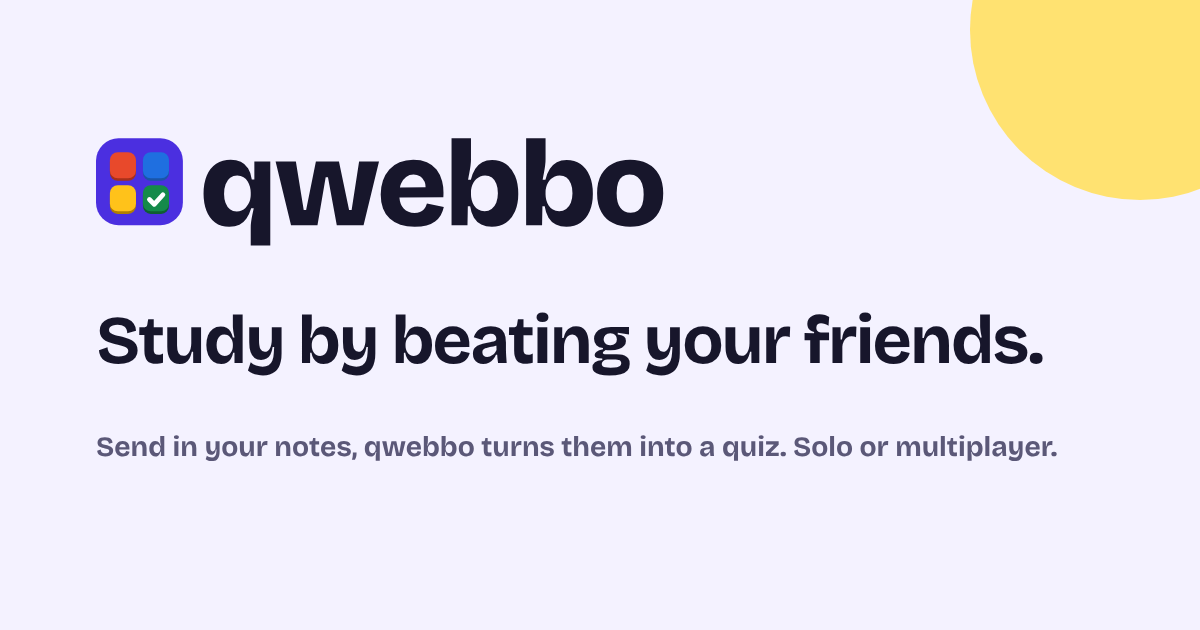
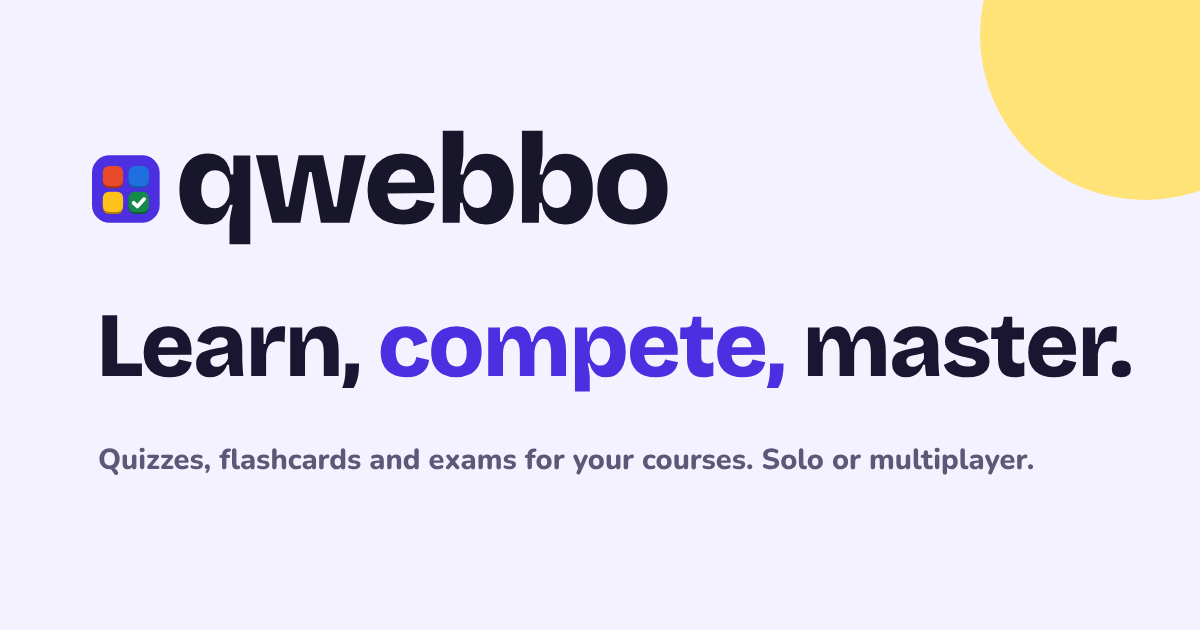
Slogan in intro videos and share image; canonical, og:url, absolute og:image, sitemap, robots; accurate description (#107)
Claude-Session: https://claude.ai/code/session_01GGTUtRtoMiv41FvyD6a17f

diff --git a/index.html b/index.html
@@ -4,7 +4,7 @@
 <meta charset="utf-8">
 <meta name="viewport" content="width=device-width,initial-scale=1,viewport-fit=cover">
 <title>qwebbo · Learn, compete, master</title>
-<meta name="description" content="Send in your notes and qwebbo turns them into a quiz. Play solo or with your friends.">
+<meta name="description" content="Quizzes, flashcards and exams for your courses. Play solo or with your friends.">
 <meta name="theme-color" content="#4B2FE0">
 <meta name="color-scheme" content="light dark">
 <script>
@@ -19,15 +19,18 @@
 <link rel="icon" href="/favicon.svg" type="image/svg+xml">
 <link rel="apple-touch-icon" href="/apple-touch-icon.png">
 <link rel="manifest" href="/manifest.webmanifest">
+<link rel="canonical" href="https://qwebbo.com/">
 <meta property="og:type" content="website">
+<meta property="og:url" content="https://qwebbo.com/">
 <meta property="og:site_name" content="qwebbo">
 <meta property="og:title" content="qwebbo · Learn, compete, master">
-<meta property="og:description" content="Send in your notes and qwebbo turns them into a quiz. Play solo or with your friends.">
-<meta property="og:image" content="/img/og-image.png">
+<meta property="og:description" content="Quizzes, flashcards and exams for your courses. Play solo or with your friends.">
+<meta property="og:image" content="https://qwebbo.com/img/og-image.png">
 <meta property="og:image:width" content="1200">
 <meta property="og:image:height" content="630">
 <meta name="twitter:card" content="summary_large_image">
-<meta name="twitter:image" content="/img/og-image.png">
+<meta name="twitter:title" content="qwebbo · Learn, compete, master">
+<meta name="twitter:image" content="https://qwebbo.com/img/og-image.png">
 <link rel="preconnect" href="https://fonts.googleapis.com">
 <link rel="preconnect" href="https://fonts.gstatic.com" crossorigin>
 <link rel="preconnect" href="https://cdn.jsdelivr.net" crossorigin>

diff --git a/js/i18n.js b/js/i18n.js
@@ -100,7 +100,7 @@ var FR={
 "Quiz not found":"Quiz introuvable",
 "Couldn't load this quiz, check your connection":"Impossible de charger ce quiz, vérifie ta connexion",
 // language switch
-"Send in your notes and qwebbo turns them into a quiz. Play solo or with your friends.":"Envoie ton cours, qwebbo en fait un quiz. Joue seul ou en multi avec tes potes.",
+"Quizzes, flashcards and exams for your courses. Play solo or with your friends.":"Quiz, flashcards et examens pour tes cours. Joue seul ou en multi avec tes potes.",
 "Podium":"Podium","Sessions":"Sessions","Question":"Question","Question {i} / {n}":"Question {i} / {n}","Pause":"Pause","question {n}":"question {n}","questions":"questions",
 "Switch to French":"Passer en français","Switch to English":"Passer en anglais",
 // quiz screen

diff --git a/js/i18n-es.js b/js/i18n-es.js
@@ -83,7 +83,7 @@ var ES={
 "Quiz not found":"Quiz no encontrado",
 "Couldn't load this quiz, check your connection":"No se ha podido cargar este quiz, revisa tu conexión",
 // language switch
-"Send in your notes and qwebbo turns them into a quiz. Play solo or with your friends.":"Envía tus apuntes y qwebbo los convierte en un quiz. Juega solo o con tus amigos.",
+"Quizzes, flashcards and exams for your courses. Play solo or with your friends.":"Quizzes, flashcards y exámenes para tus cursos. Juega solo o con tus amigos.",
 "Podium":"Podio","Sessions":"Sesiones","Question":"Pregunta","Question {i} / {n}":"Pregunta {i} / {n}","Pause":"Pausa","question {n}":"pregunta {n}","questions":"preguntas",
 "Switch to French":"Cambiar a francés","Switch to English":"Cambiar a inglés",
 // quiz screen

diff --git a/supabase/functions/generate-quiz/index.ts b/supabase/functions/generate-quiz/index.ts
@@ -11,7 +11,7 @@ const PER_IP_PER_HOUR = 6;
 const GLOBAL_PER_DAY = 60; // each quiz costs real money: this is the hard ceiling per day
 
 // Kill switch: the function does nothing (and costs nothing) until the secret GENERATE_ENABLED is set to "true".
-// ALLOWED_ORIGIN (optional secret, e.g. https://tipoki.vercel.app) limits which website may call it from a browser.
+// ALLOWED_ORIGIN (optional secret, e.g. https://qwebbo.com) limits which website may call it from a browser.
 const cors = {
   "Access-Control-Allow-Origin": Deno.env.get("ALLOWED_ORIGIN") || "*",
   "Access-Control-Allow-Headers": "authorization, x-client-info, apikey, content-type",

diff --git a/video/record.js b/video/record.js
@@ -1,4 +1,4 @@
-// Records the Tipoki presentation video (v3): node video/record.js <en|fr> <outdir>
+// Records the qwebbo presentation video (v3): node video/record.js <en|fr> <outdir>
 // Needs the repo served on http://localhost:8765 and Playwright. Stage = video/stage.html, phones = the real site in iframes.
 const {chromium}=require('playwright');const fs=require('fs');const path=require('path');
 const LANG=process.argv[2]||'en',OUT=path.resolve(process.argv[3]||'out');fs.mkdirSync(OUT,{recursive:true});

diff --git a/video/stage.html b/video/stage.html
@@ -1,4 +1,4 @@
-<!doctype html><meta charset=utf-8><title>Tipoki intro</title>
+<!doctype html><meta charset=utf-8><title>qwebbo intro</title>
 <link href="https://fonts.googleapis.com/css2?family=Bricolage+Grotesque:opsz,wght@12..96,800&family=Nunito:wght@700;800&display=swap" rel="stylesheet">
 <style>
 :root{--v:#6B4DFF;--pk:#FF3D8B;--y:#FFE36E;--a0:#FF3D5A;--a1:#3D8BFF;--a2:#FFC21A;--a3:#25D08A}
